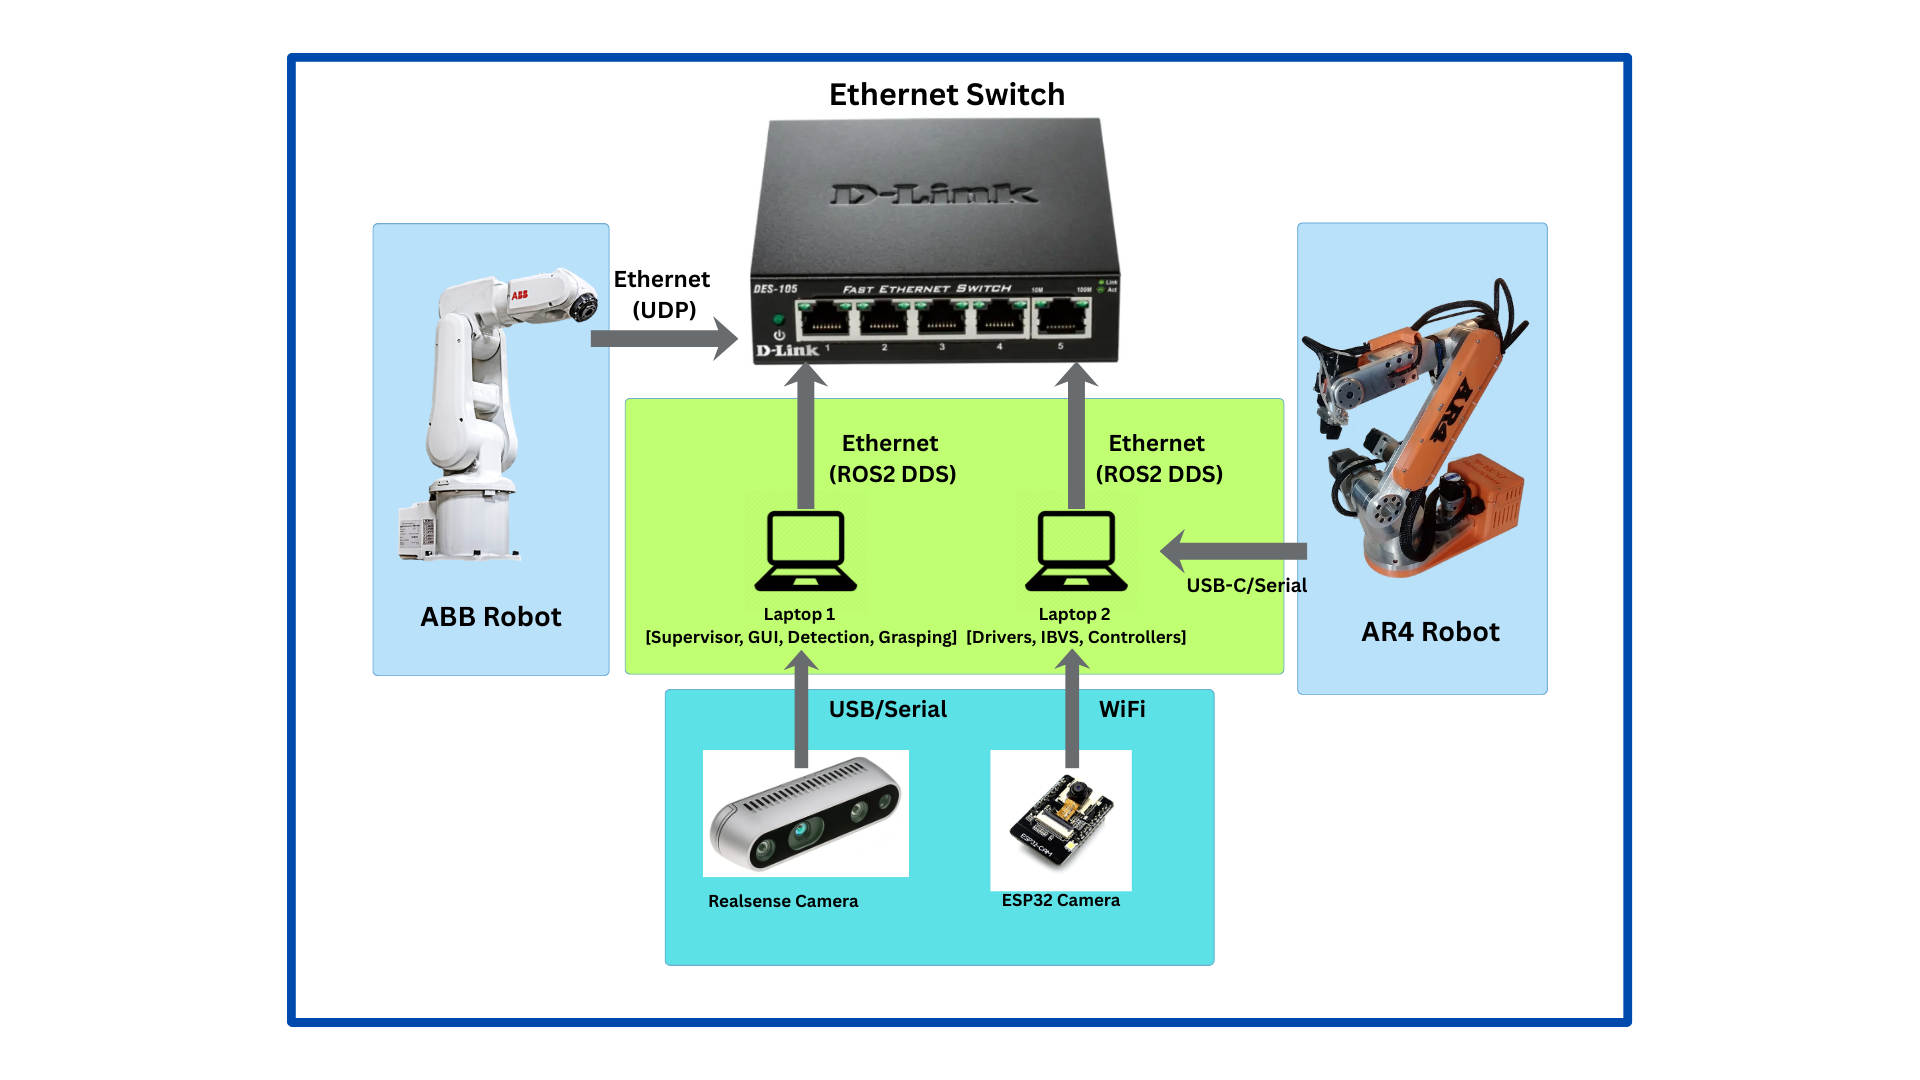
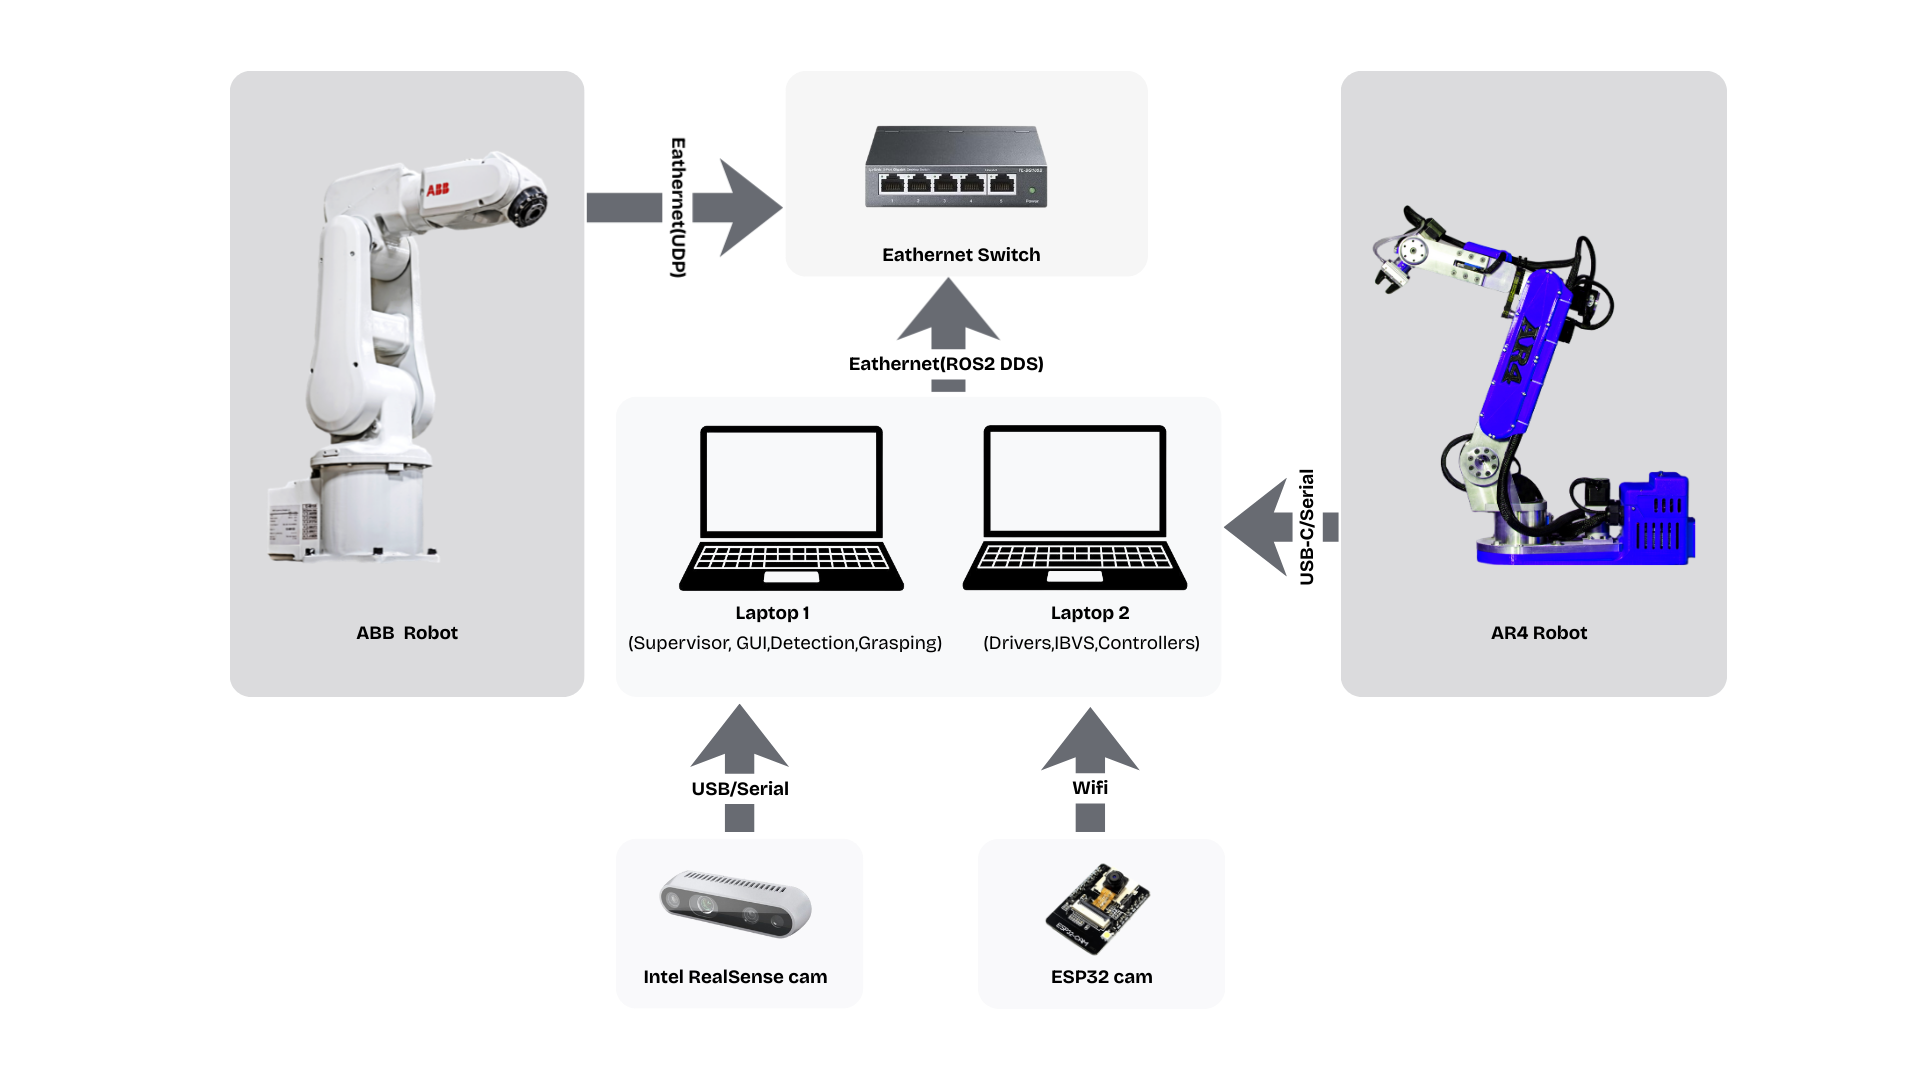
added list of figures and tables ,changed network diagram

diff --git a/main.tex b/main.tex
@@ -84,7 +84,6 @@
         
         % Thesis Title
         {\Huge \textbf{Collaborative Robotic Arms}}\\[0.5cm]
-        {\Huge \textbf{Digital-Twin Enabled}}\\[1cm]
         {\Large \textit{Graduation Project Thesis}}
         
         \vspace{1.5cm}
@@ -194,7 +193,56 @@ To achieve accurate interaction in a shared workspace, calibration is treated as
 Experimental results demonstrate improved positional accuracy using polynomial calibration, effective brick detection performance using segmentation, increased grasp stability using the True/False labeling strategy, and robust end-to-end execution under a state-machine framework. The thesis concludes with limitations and future directions, including improved domain adaptation, force-aware handovers, and enhanced Digital Twin synchronization for higher fidelity planning and monitoring.
 \clearpage
 
+\thispagestyle{fancy}
 \tableofcontents
+\clearpage
+\thispagestyle{fancy}
+\listoffigures
+\clearpage
+\thispagestyle{fancy}
+\listoftables
+\clearpage
+
+% ---------- NOMENCLATURE ----------
+\thispagestyle{fancy}
+\chapter*{Nomenclature}
+\addcontentsline{toc}{chapter}{NOMENCLATURE}
+
+\begin{description}
+    \setlength{\itemsep}{0pt}
+    \item[DDS:] Data Distribution Service
+    \item[DOF:] Degrees of Freedom
+    \item[FoV:] Field of View
+    \item[GPIO:] General Purpose Input/Output
+    \item[GUI:] Graphical User Interface
+    \item[HAL:] Hardware Abstraction Layer
+    \item[HSV:] Hue, Saturation, Value (Color Space)
+    \item[IBVS:] Image-Based Visual Servoing
+    \item[IK:] Inverse Kinematics
+    \item[IoU:] Intersection over Union
+    \item[JSON:] JavaScript Object Notation
+    \item[KDL:] Kinematics and Dynamics Library
+    \item[LAN:] Local Area Network
+    \item[MAE:] Mean Absolute Error
+    \item[mAP:] mean Average Precision
+    \item[MRTA:] Multi-Robot Task Allocation
+    \item[OMPL:] Open Motion Planning Library
+    \item[PBVS:] Position-Based Visual Servoing
+    \item[PID:] Proportional-Integral-Derivative (Controller)
+    \item[RBF:] Radial Basis Function
+    \item[RGB:] Red, Green, Blue (Color Model)
+    \item[RMSE:] Root Mean Square Error
+    \item[ROI:] Region of Interest
+    \item[ROS:] Robot Operating System
+    \item[RRT:] Rapidly-exploring Random Tree
+    \item[TF2:] Transform Library version 2
+    \item[UART:] Universal Asynchronous Receiver-Transmitter
+    \item[UDP:] User Datagram Protocol
+    \item[URDF:] Unified Robot Description Format
+    \item[ViT:] Vision Transformer
+    \item[YOLOv8:] You Only Look Once version 8
+\end{description}
+
 \clearpage
 
 % ---------- CHAPTERS ----------

diff --git a/chapters/chapter3/ch3_divided_network.tex b/chapters/chapter3/ch3_divided_network.tex
@@ -5,7 +5,7 @@ To optimize computational load and ensure modular system performance, we impleme
 \begin{figure}[H]
     \centering
     \includegraphics[width=0.9\textwidth]{Figures/chapter3/Divided_network/Divided_Computation.png} 
-    \caption{End-effector positions in XY plane after affine (linear) correction.}
+    \caption{Hardware and Network Communication Architecture for the Collaborative System.}
     \label{fig:dist_arch}
 \end{figure}
 \subsection{Physical Network Layer}
@@ -19,7 +19,7 @@ The core communication backbone is established via a dedicated local area networ
 
 
 \subsection{Distributed ROS 2 Environment}
-By configuring both laptops to operate on the same \texttt{ROS\_DOMAIN\_ID}, the ROS 2 nodes running on separate machines function as a unified computation graph. This allows topics published by the driver on the AR4-connected laptop to be immediately subscribed to by the planning or perception nodes on the second laptop without complex routing protocols.
+By configuring both laptops to operate on the same \texttt{ROS\_DOMAIN\_ID}, the ROS2 nodes running on separate machines function as a unified computation graph. This allows topics published by the driver on the AR4-connected laptop to be immediately subscribed to by the planning or perception nodes on the second laptop without complex routing protocols.
 
 This separation allows for significant resource isolation based on task requirements:
 

diff --git a/chapters/chapter5/ch5_all.tex b/chapters/chapter5/ch5_all.tex
@@ -2,4 +2,4 @@
 \thispagestyle{fancy}
 \vspace*{0cm} % move text up to start near top of page
 
-\input{chapters/chapter5/ch5_future_work.tex}
+\input{chapters/chapter5/ch5_future_work}
